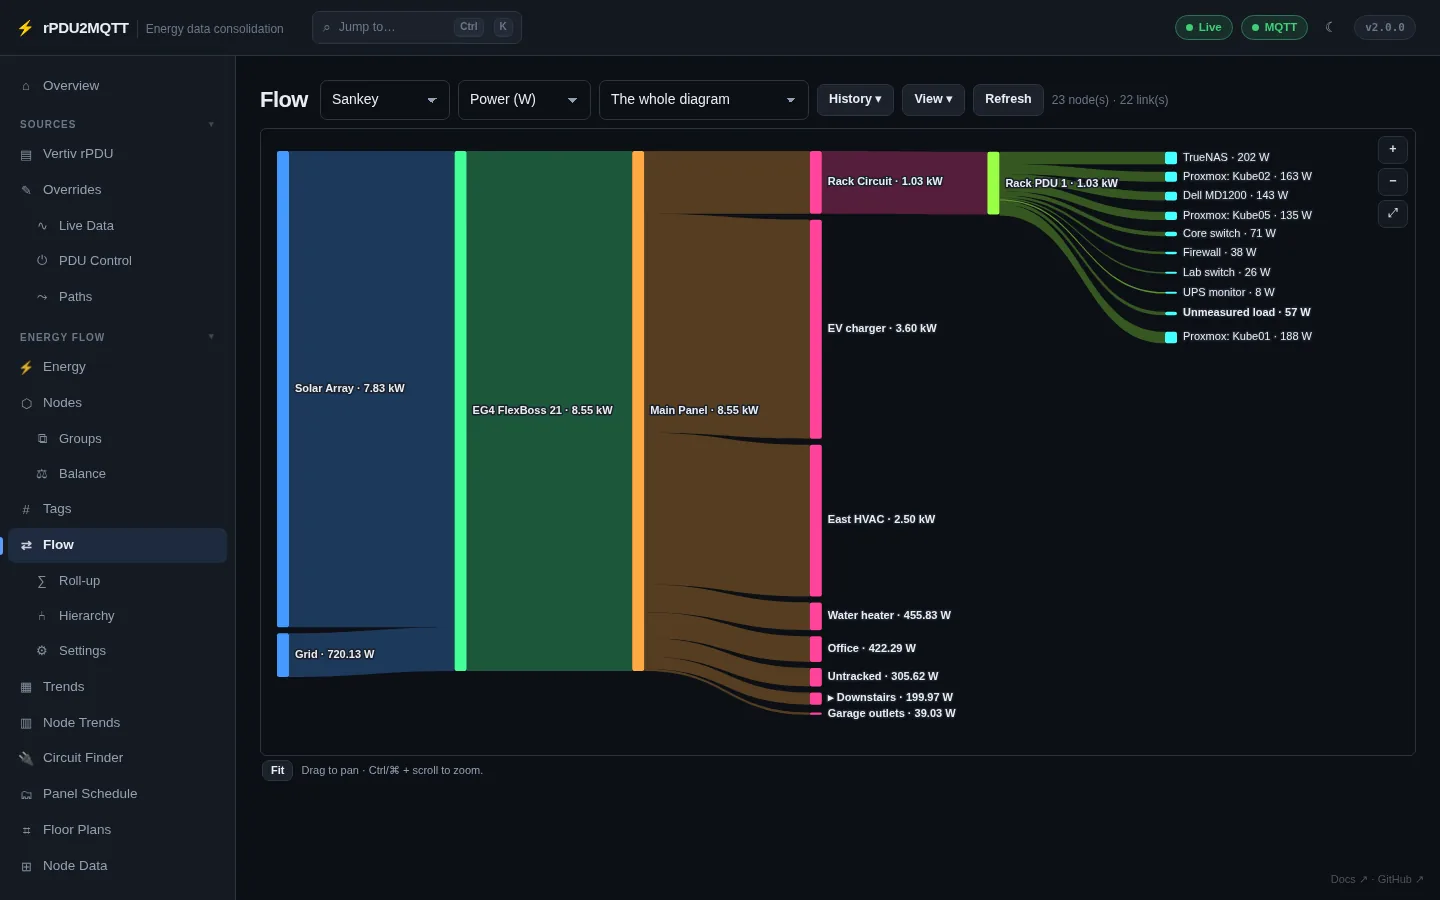
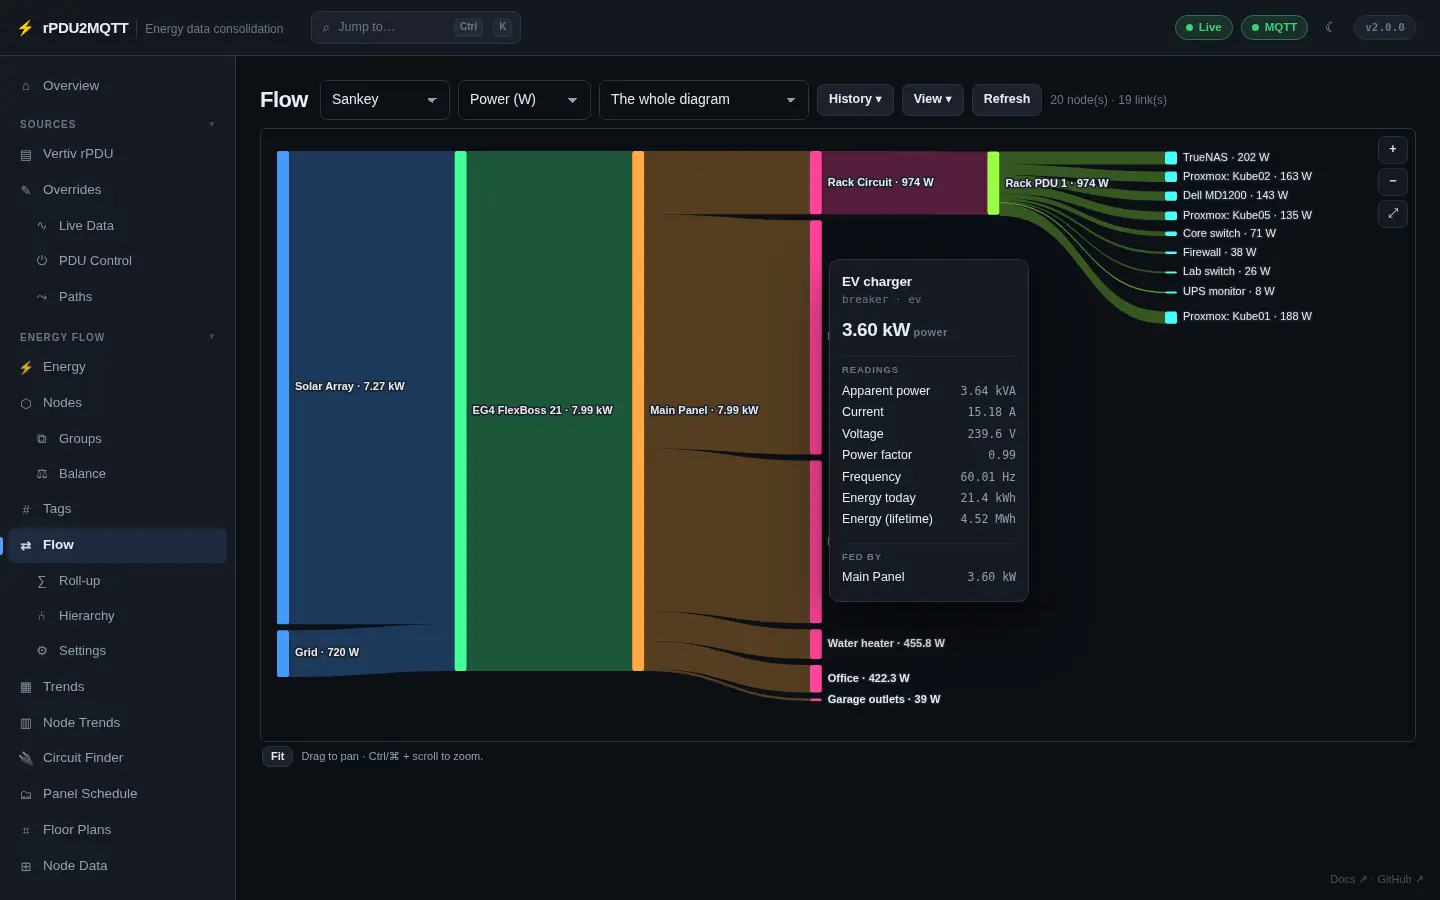
Docs: Flow screenshots with hover readings and node menu

diff --git a/docs-site/docs/energy-flow/flow.md b/docs-site/docs/energy-flow/flow.md
@@ -33,17 +33,19 @@ Mouse:
 
 | Action | Result |
 | --- | --- |
-| Hover | Node details |
-| Click a node | Trace where its power comes from |
+| Hover | Node value, readings (apparent power, current, voltage, power factor, frequency, energy), feeders and what it feeds |
+| Click or right-click a node | **Trace its supply**, **Last 7 days…**, **History…**, **Drill into this**, **Clear the trace**, **Edit this node** |
 | Click a group | Expand or collapse it |
 | Double-click a node | Drill into it. Double-click the top node to go back one level. |
-| Right-click a node | **History…**, **Drill into this**, **Trace its supply**, **Edit this node** |
 | Right-click the canvas | Clear trace, fit, refresh |
 | Drag / Ctrl + scroll | Pan / zoom. **Fit** resets. |
+
+![Node menu](../assets/screenshots/flow-node-menu.webp)
 
 - **Energy (kWh)** is today's energy (`energy_d`). See [Totals and counters](totals.md).
 - **Cost ($)** uses `Gui.EnergyPrice`.
 - Nodes marked **⚠** have more leaving than arriving. A banner lists sources being withheld and why.
+- **Last 7 days…** opens **History…** on the last 7 days.
 - **History…** charts the last hour, 6 hours, 24 hours, 7 days or 30 days, with what the node feeds broken out.
 
 ## Hierarchy

diff --git a/docs-site/docs/index.md b/docs-site/docs/index.md
@@ -19,7 +19,7 @@ Whole-house energy monitoring, from the solar array to the outlet. Configured in
 
 Every node, every metric, live. Sankey, sunburst or treemap.
 
-![Sankey diagram: solar and grid through the inverter and main panel to circuits and PDU outlets](assets/screenshots/home-sankey.webp)
+![Sankey diagram with a circuit's readings on hover](assets/screenshots/home-sankey.webp)
 
 === "Treemap"
 
